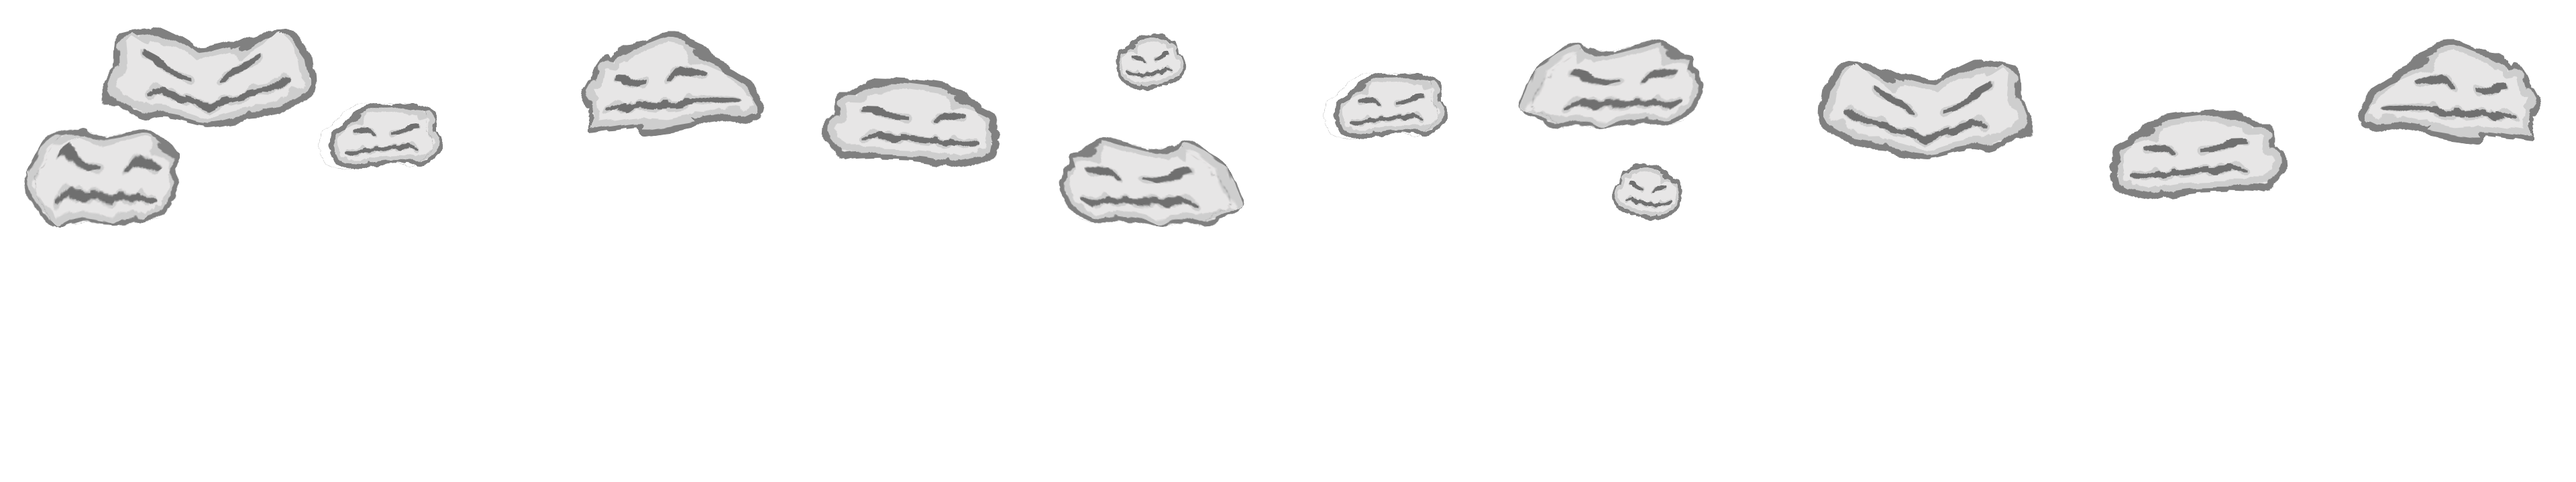
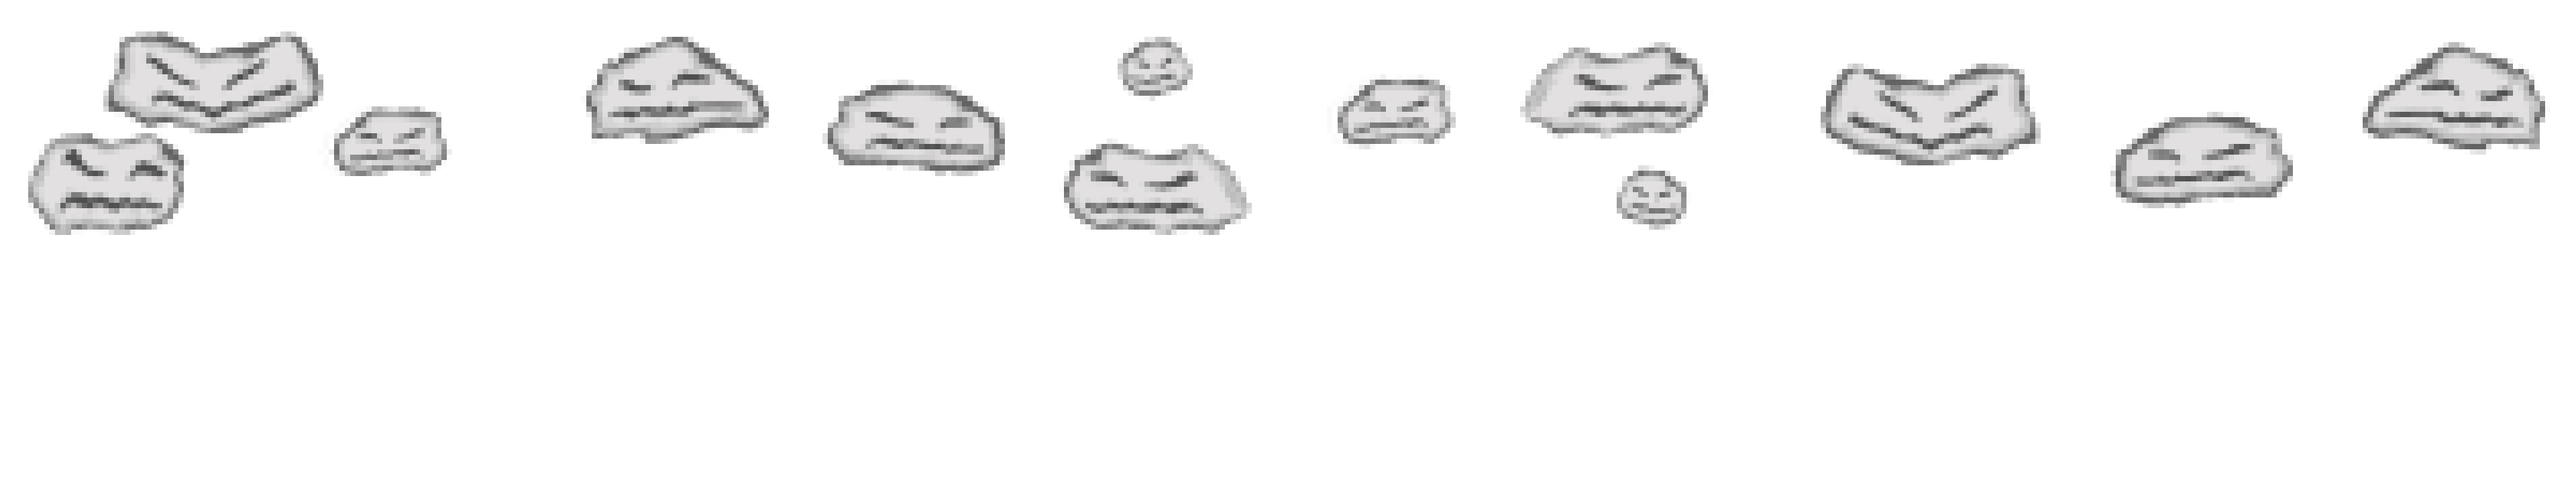
Commit Successfull

diff --git a/app/src/main/java/com/example/kur0/petersnightmares/RunIfUnreal.java b/app/src/main/java/com/example/kur0/petersnightmares/RunIfUnreal.java
@@ -168,7 +168,7 @@ public class RunIfUnreal extends EscenaBase
         fondoCerca = new Sprite(xCerca,yCerca,admRecursos.regionFondoCerca,admRecursos.vbom);
         // Se agregan las capas individuales al autoParallax
         AutoParallaxBackground fondo = new AutoParallaxBackground(0,0,0,10);
-        fondo.attachParallaxEntity(new ParallaxBackground.ParallaxEntity(-8,fondoLejos));
+        fondo.attachParallaxEntity(new ParallaxBackground.ParallaxEntity(0,fondoLejos));
         fondo.attachParallaxEntity(new ParallaxBackground.ParallaxEntity(-2,fondoMedioMedio));
         fondo.attachParallaxEntity(new ParallaxBackground.ParallaxEntity(-16,fondoMedio));
         fondo.attachParallaxEntity(new ParallaxBackground.ParallaxEntity(-24,fondoCerca));

diff --git a/app/src/main/java/com/example/kur0/petersnightmares/AdministradorRecursos.java b/app/src/main/java/com/example/kur0/petersnightmares/AdministradorRecursos.java
@@ -66,6 +66,7 @@ public class AdministradorRecursos
     //-------------------------Universal para la barra de tiempo----------------------------
     private AssetBitmapTexture texturaBarraTiempo;
     public TextureRegion regionBarraTiempo;
+    //--------------------------------------------------------------------------------------
 
     //-------------------------Escena juego Run if it's unreal-----------------------------
     // Fondo
